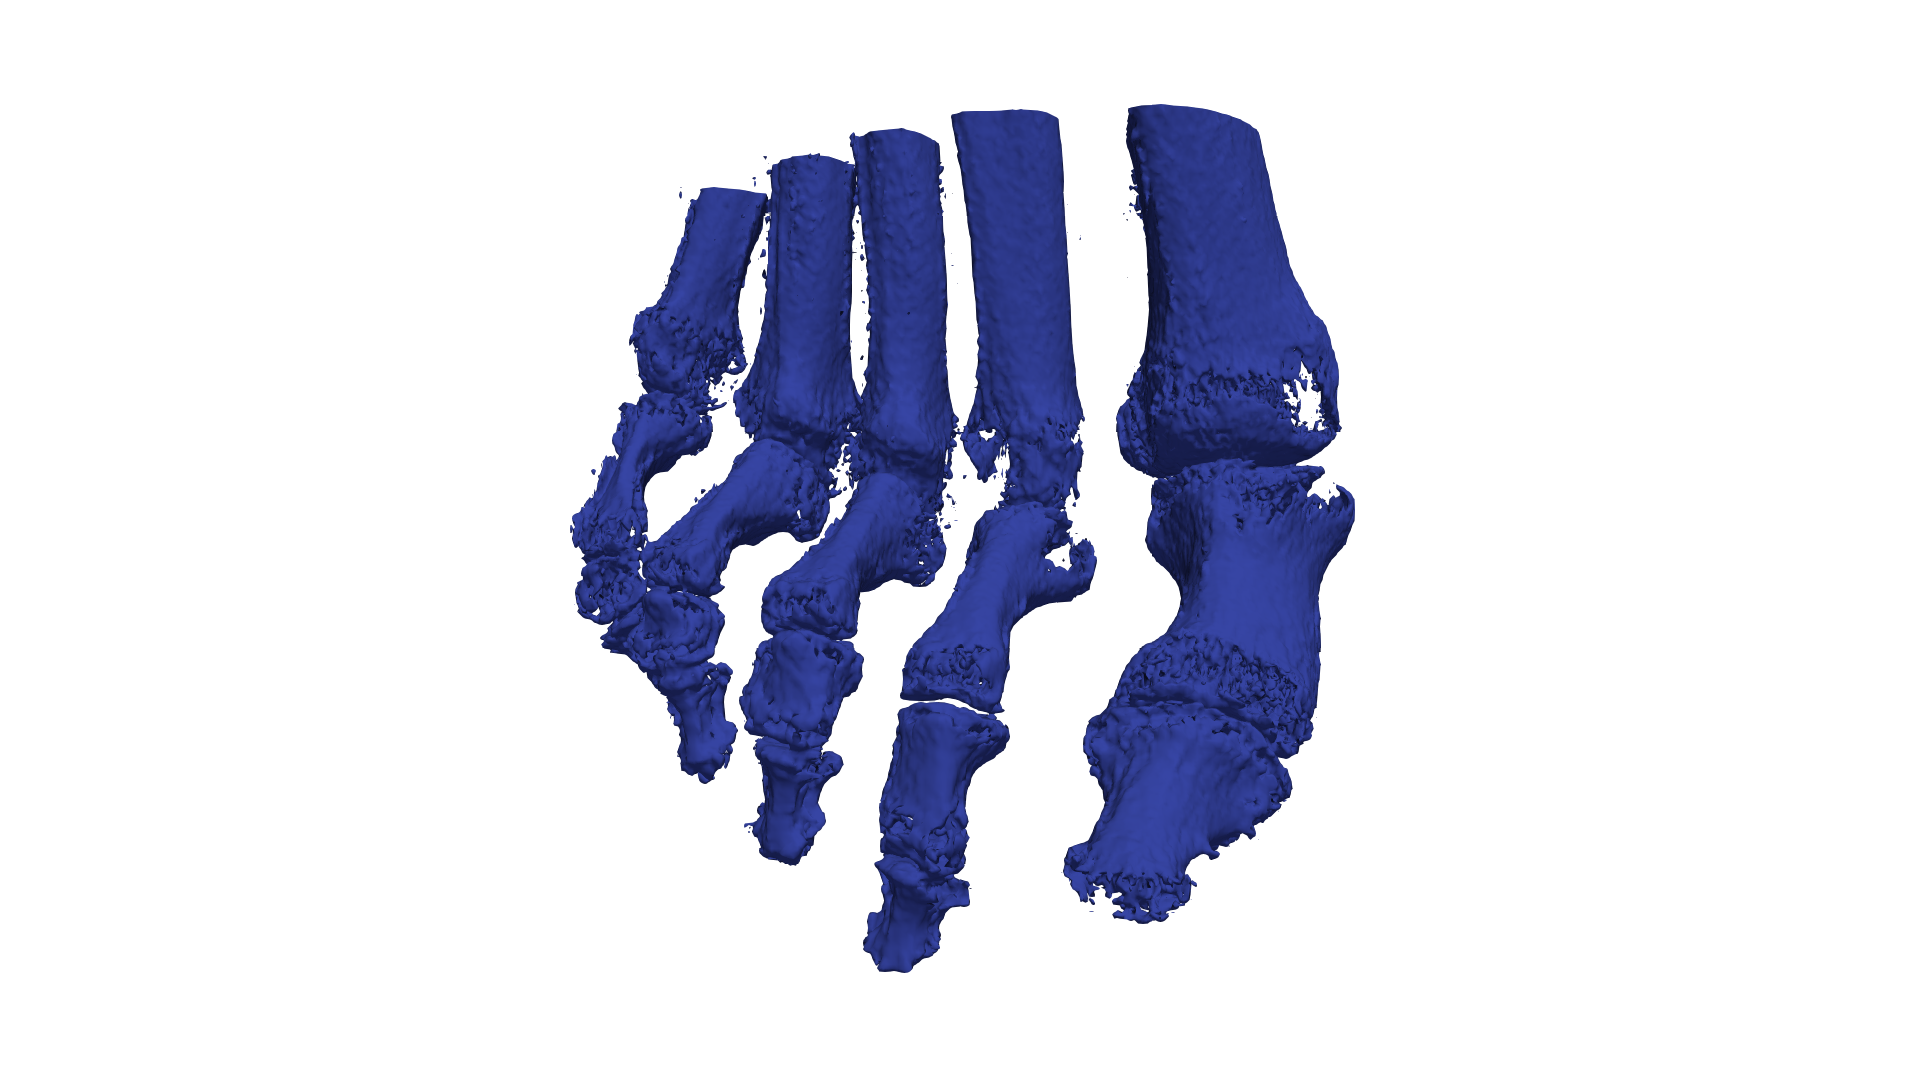
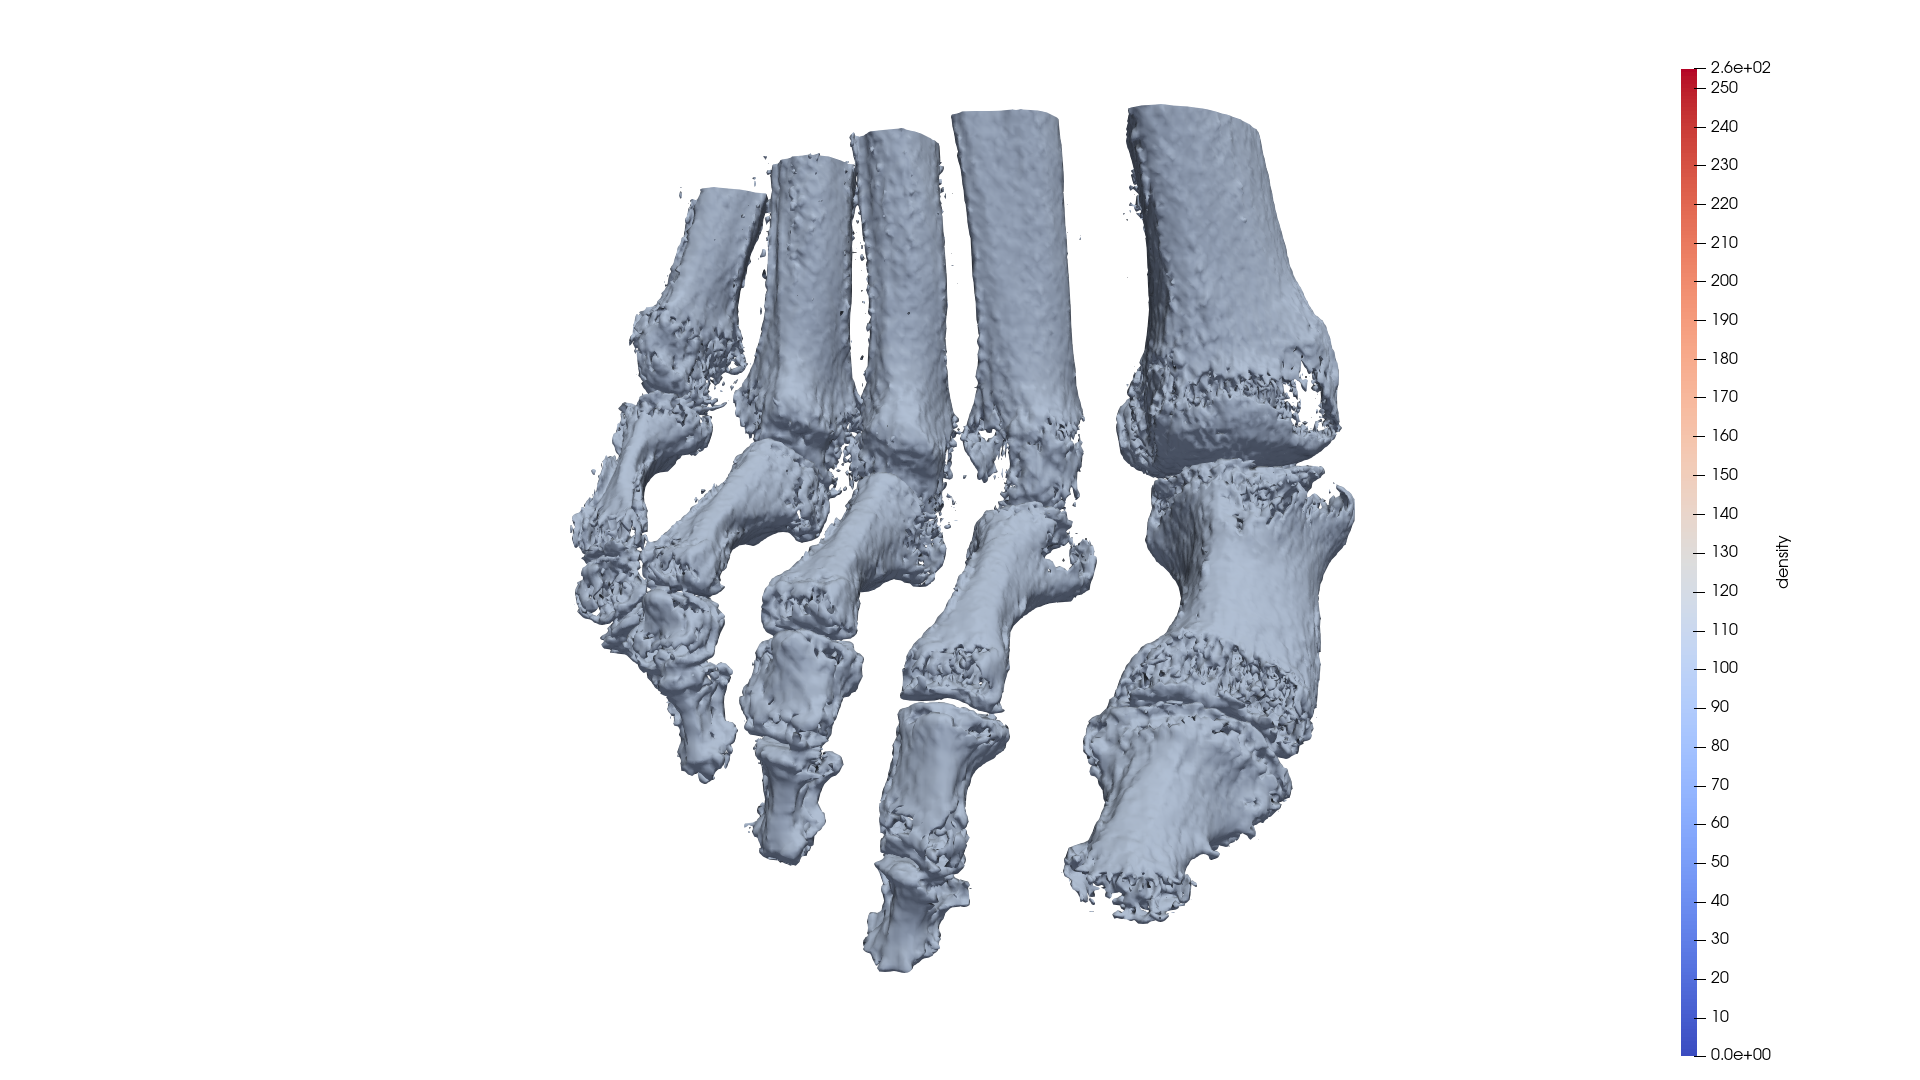
Add color bar to isocontour example

Changed region(s): [[0.2812, 0.0917, 0.7188, 0.9167], [0.875, 0.0611, 0.9062, 0.9778]]

diff --git a/database/isocontour/resources/isocontour_trace.py b/database/isocontour/resources/isocontour_trace.py
@@ -58,21 +58,39 @@ renderView1.CameraParallelScale = 220.83647796503186
 # create new layout object 'Layout #1'
 layout1 = pvs.CreateLayout(name='Layout #1')
 layout1.AssignView(0, renderView1)
-layout1.SetSize(825, 1176)
+layout1.SetSize(1920, 1080)
 
 # ----------------------------------------------------------------
 # setup the visualization in view 'renderView1'
 # ----------------------------------------------------------------
 
+# get 2D transfer function for 'Scalars_'
+scalars_TF2D = pvs.GetTransferFunction2D('Scalars_')                    # OWN_DATA: change field
+
+# get color transfer function/color map for 'Scalars_'
+scalars_LUT = pvs.GetColorTransferFunction('Scalars_')                  # OWN_DATA: change field
+scalars_LUT.TransferFunction2D = scalars_TF2D
+scalars_LUT.RGBPoints = [0.0, 0.231373, 0.298039, 0.752941, 127.5, 0.865003, 0.865003, 0.865003, 255.0, 0.705882, 0.0156863, 0.14902]
+scalars_LUT.ScalarRangeInitialized = 1.0
+
 # show data from contour1
 contour1Display = pvs.Show(contour1, renderView1, 'GeometryRepresentation')
 contour1Display.Representation = 'Surface'
-contour1Display.ColorArrayName = ['POINTS', 'Scalars_']             # OWN_DATA: change field
+contour1Display.ColorArrayName = ['POINTS', 'Scalars_']                 # OWN_DATA: change field
+contour1Display.SetScalarBarVisibility(renderView1, True)
 
-# pvs.ResetCamera(renderView1)                                      # OWN_DATA: if the original view does not fit ResetCamera can be used to focus on the visible data
+# get color legend/bar for scalars_LUT in view renderView1
+scalars_LUTColorBar = pvs.GetScalarBar(scalars_LUT, renderView1)
+scalars_LUTColorBar.WindowLocation = 'Any Location'
+scalars_LUTColorBar.Position = [0.8755364806866953, 0.022857142857142857]
+scalars_LUTColorBar.Title = 'density'                                   # OWN_DATA: change title
+scalars_LUTColorBar.ComponentTitle = ''
+scalars_LUTColorBar.ScalarBarLength = 0.9147619047619047
+scalars_LUTColorBar.Visibility = 1
+
+# pvs.ResetCamera(renderView1)                                          # OWN_DATA: if the original view does not fit ResetCamera can be used to focus on the visible data
 
 # save screenshot
 pvs.SaveScreenshot('./output/isocontour.png', 
-    layout1, 
-    ImageResolution=[1920, 1080],
+    layout1,
     FontScaling='Do not scale fonts')
